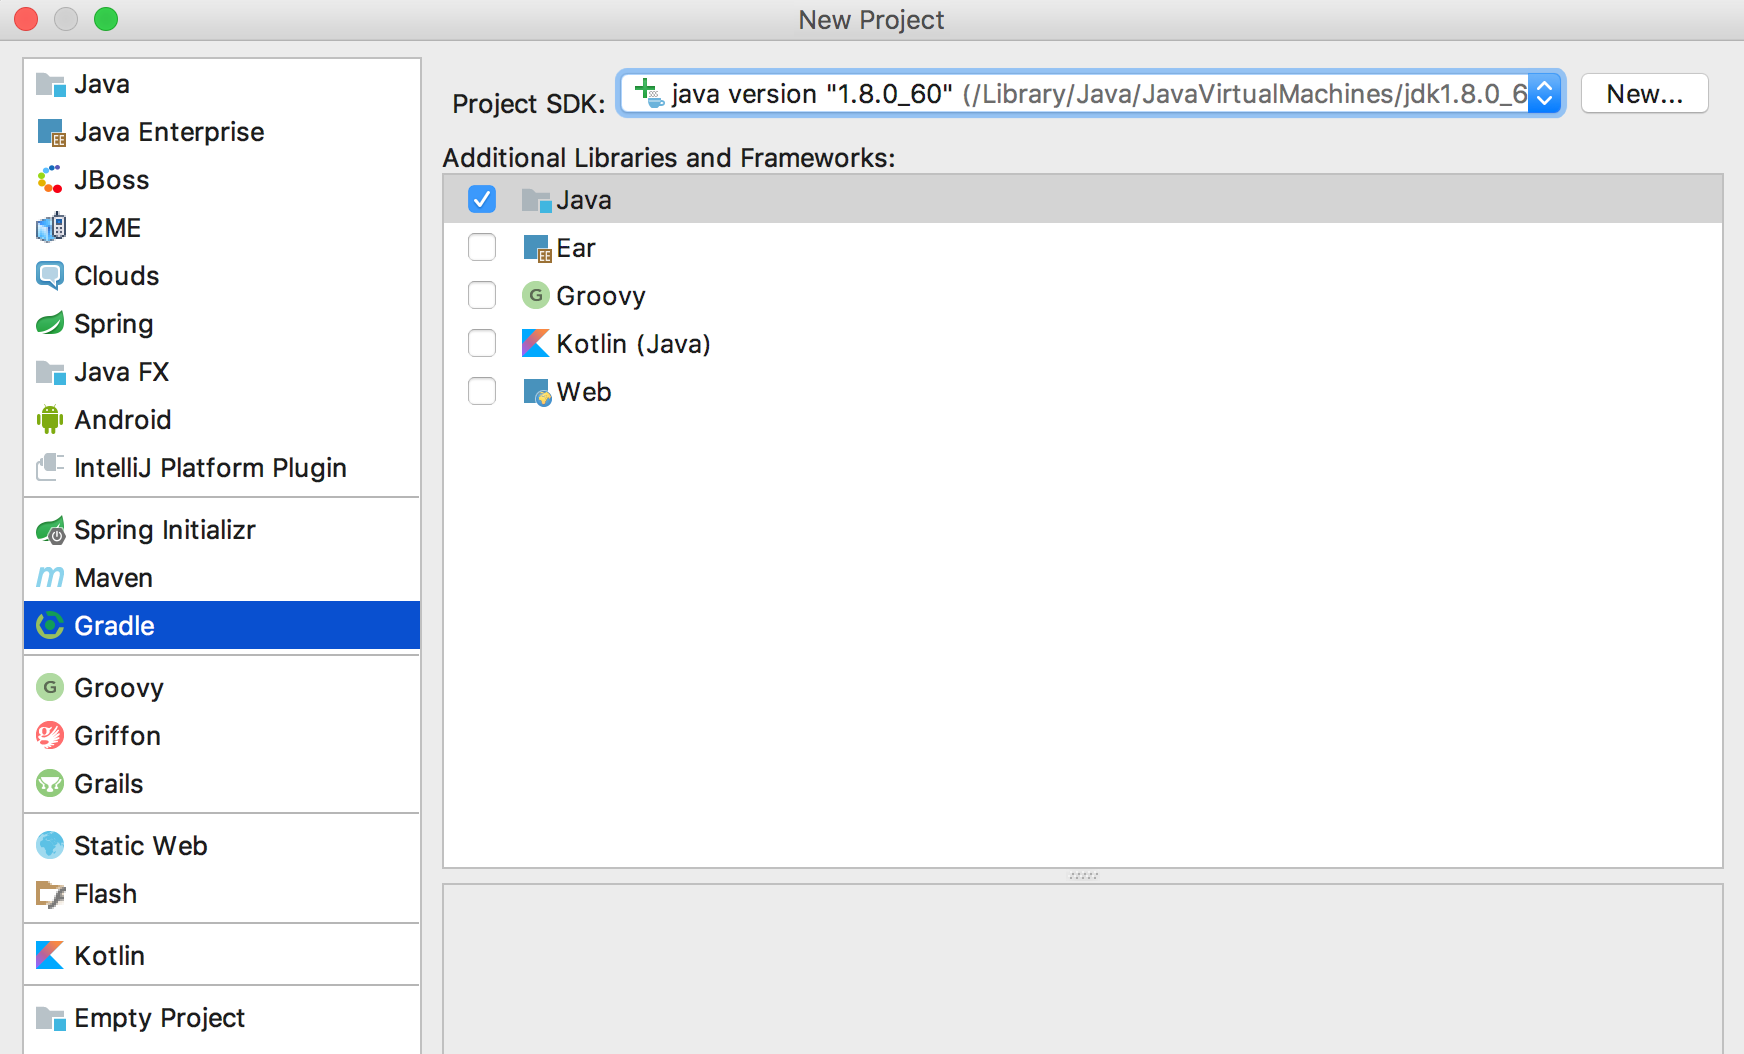
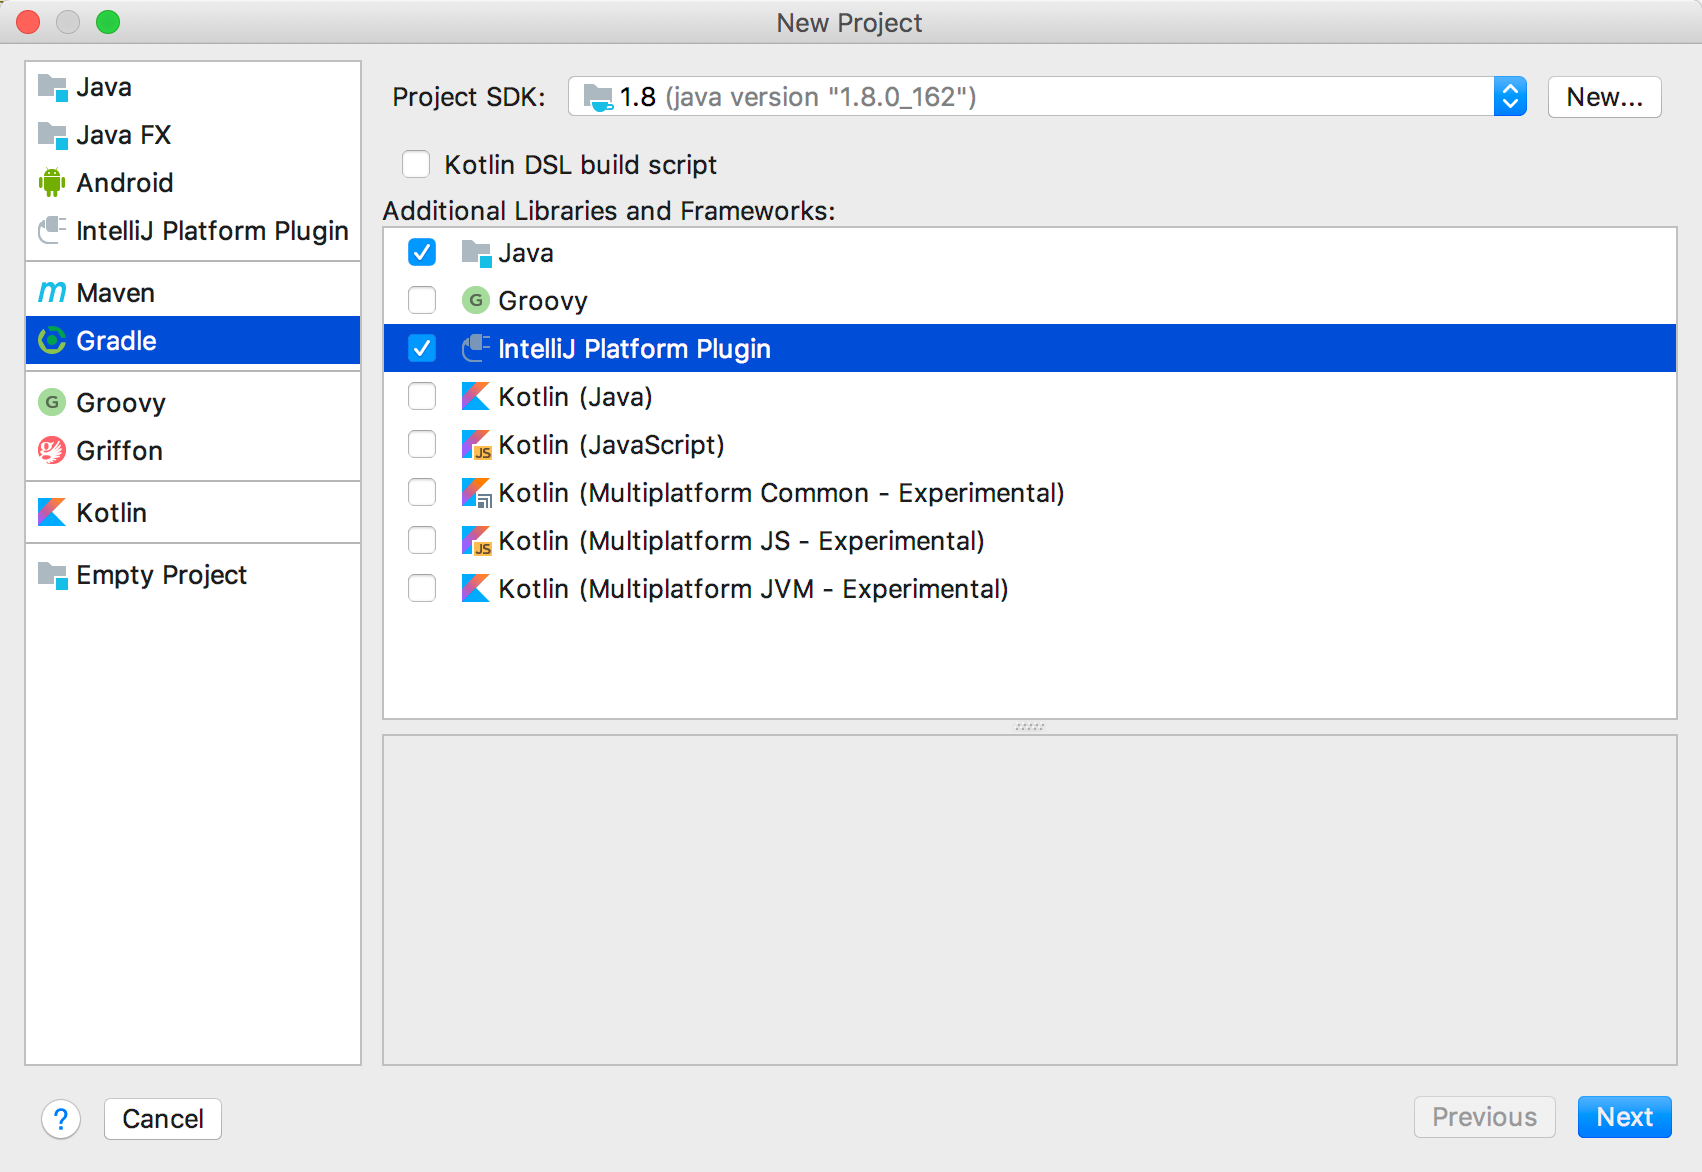
Put "Create project from scratch" first, document new option to configure Gradle plugin project automatically

diff --git a/tutorials/build_system/prerequisites.md b/tutorials/build_system/prerequisites.md
@@ -14,9 +14,31 @@ The Gradle plugin is required if you want to add a [Gradle Run Configuration](ht
 
 <img src="img/step0_gradle_enabled.png" alt="Ensure the Gradle plugin is enabled" width="858px"/>
 
-### 1.2. Add Gradle support to an existing plugin 
+### 1.2. Create plugin project from scratch
 
-There are two ways to add Gradle support to an existing project. Both will require adding a `build.gradle` file under the root directory, with at least the following contents:
+IntelliJ IDEA supports automatically creating new plugin projects using Gradle, with all the necessary build.gradle
+setup performed automatically. This can also be used to convert an existing plugin to Gradle, if Gradle is not able to 
+convert the existing project - in this case, you need to copy over the sources to the new project.
+
+To do so, create a new project in IntelliJ IDEA by opening **File \| New... \| Project**, and select Gradle from the dialog box.
+In the "Additional Libraries and Frameworks" page, check "IntelliJ Platform Plugin".
+
+<img src="img/step1_new_gradle_project.png" alt="Select the Gradle facet in the Project Creation Wizard" width="800px"/>
+
+The Project Creation Wizard will now guide you through the Gradle project creation process. You will need to specify a Group ID, Artifact ID, and Version:
+
+<img src="img/step2_group_artifact_version.png" alt="Specify the Group, Artifact, and Version IDs" width="800px"/>
+
+It’s recommended to select the `Use default gradle wrapper` option, that way IntelliJ IDEA will install everything you need to run Gradle tasks itself.
+
+Finally, specify a JVM Gradle will use, it can be the Project JDK. You also configure this path once the project is created via **Settings \| Build, Execution, Deployment \| Build Tools \| Gradle**.
+
+<img src="img/step3_gradle_config.png" alt="Verify the JVM is the correct version" width="800px"/>
+
+
+### 1.3. Add Gradle support to an existing plugin 
+
+To add Gradle support to an existing plugin project, create a `build.gradle` file under the root directory, with at least the following contents:
 
 ```groovy
 buildscript {
@@ -26,7 +48,7 @@ buildscript {
 }
 
 plugins {
-    id "org.jetbrains.intellij" version "0.2.18"
+    id "org.jetbrains.intellij" version "0.3.0"
 }
 
 apply plugin: 'idea'
@@ -43,41 +65,13 @@ group 'org.jetbrains'
 version '1.2' // Plugin version
 ```
 
-To add Gradle support to an existing project, copy the above Gradle build script into your `build.gradle` file, and with the Gradle executable on your system `PATH`, execute the following commands on your system's command line:
+Then, with the Gradle executable on your system `PATH`, execute the following commands on your system's command line:
 
 ```
 gradle cleanIdea idea
 ```
 
 This will clean any existing IntelliJ IDEA configuration files and generate a new Gradle build configuration recognized by IntelliJ IDEA. Once your project refreshes, you should be able to view the Gradle tool window displayed under **View \| Tool Windows \| Gradle**. This indicates that IntelliJ IDEA recognizes the Gradle facet.
-
-### 1.3. Add Gradle support from scratch
-
-The second method to add Gradle support is by creating a new project from scratch in IntelliJ IDEA.
-This can also be used for an existing plugin, if Gradle is not able to convert the existing project - in this case,
-you need to copy over the sources to the new project.
-
-To do so, create a new project in IntelliJ IDEA by opening **File \| New... \| Project**, and select Gradle from the dialog box:
-
-<img src="img/step1_new_gradle_project.png" alt="Select the Gradle facet in the Project Creation Wizard" width="800px"/>
-
-The Project Creation Wizard will now guide you through the Gradle project creation process. You will need to specify a Group ID, Artifact ID, and Version:
-
-<img src="img/step2_group_artifact_version.png" alt="Specify the Group, Artifact, and Version IDs" width="800px"/>
-
-On the next screen, check `Create directories for empty content roots automatically`.
-
-It’s recommended to select the `Use default gradle wrapper` option, that way IntelliJ IDEA will install everything you need to run Gradle tasks itself.
-
-Finally, specify a JVM Gradle will use, it can be the Project JDK. You also configure this path once the project is created via **Settings \| Build, Execution, Deployment \| Build Tools \| Gradle**.
-
-<img src="img/step3_gradle_config.png" alt="Verify the JVM is the correct version" width="800px"/>
-
-Now, add the following script to your `build.gradle file`, overwriting any existing contents.
-
-```groovy
-{% include /code_samples/gradle_plugin_demo/build.gradle %}
-```
 
 ### 1.4. Running a simple plugin
 
